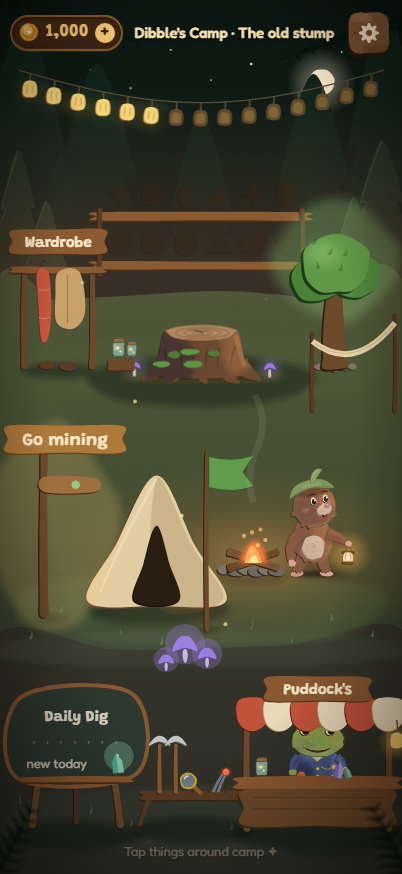
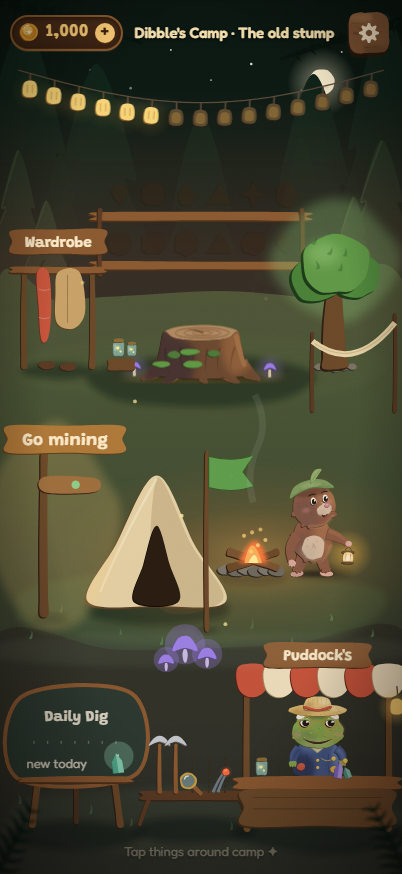
Camp: Puddock stands taller behind his stall
The awning, its posts, lantern and the Puddock's sign (or Psst! bubble) ride
24 units higher and Puddock stands 6 units taller, so his head and hat show
clearly above the counter instead of under the stripes. The stall's tap
target and the pets' keep-out box grow with the awning.

Changed region(s): [[0.5672, 0.7105, 1.0, 0.8959]]

diff --git a/proto/art.js b/proto/art.js
@@ -926,21 +926,21 @@ export function camp(st, gemFn, dibbleSvg) {
   const bench = `<g data-tap="tools" role="button" aria-label="Tool bench">${hit(PK, 300, 186, 388, 258)}${PK.g(`${plank(306, 230, 76, 7, "#5a3b24", r)}${shape(limb(310, 237, 306, 246, 303, 256, 1.6, 1.3), "#5a3b24", "#2e1e12", [-.5, .5])}${shape(limb(378, 237, 382, 246, 385, 256, 1.6, 1.3), "#5a3b24", "#2e1e12", [-.5, .5])}${picks}
     ${st.lens ? `<g transform="translate(330 214) scale(.9)">${ICONS.lens}</g>` : ""}${st.tongs ? `<g transform="translate(352 212) scale(.9)">${ICONS.tongs}</g>` : ""}`)}</g>`;
 
-  const stripe = (k) => { const x = 282 + k * 19.3; return shape(curve([[x, 312], [x + 19.3, 312], [x + 19.3, 328], [x + 9.6, 334], [x, 328]]), k % 2 ? "#f1e4c4" : "#c8553d", k % 2 ? "#a08a60" : "#5a1e14", [-.6, .6]); };
-  const PSt = place(340, 404, 319, yF, 1.3 * kf), bk = 16 / 11 / s; // the Psst! bubble is drawn at a fixed 16px
-  const stall = `<g data-tap="market">${hit(PSt, 280, 294, 400, 406)}${PSt.g(`
-    ${shape(limb(288, 404, 287, 360, 288, 314, 2.2, 1.8), "#6b4a2a", "#2e1e12", [-.7, .6])}${shape(limb(388, 404, 389, 360, 388, 314, 2.2, 1.8), "#6b4a2a", "#2e1e12", [-.7, .6])}
-    ${st.puddockSvg && !st.packed ? `<g class="pud"><svg x="306" y="312" width="64" height="64" viewBox="0 0 100 100">${strip(st.puddockSvg)}</svg></g>` : ""}
+  const aw = 24, stripe = (k) => { const x = 282 + k * 19.3; return shape(curve([[x, 312 - aw], [x + 19.3, 312 - aw], [x + 19.3, 328 - aw], [x + 9.6, 334 - aw], [x, 328 - aw]]), k % 2 ? "#f1e4c4" : "#c8553d", k % 2 ? "#a08a60" : "#5a1e14", [-.6, .6]); };
+  const PSt = place(340, 404, 319, yF, 1.3 * kf), bk = 16 / 11 / s; // the Psst! bubble is drawn at a fixed 16px; aw: the awning (and sign) ride high so Puddock's head shows
+  const stall = `<g data-tap="market">${hit(PSt, 280, 294 - aw, 400, 406)}${PSt.g(`
+    ${shape(limb(288, 404, 287, 360, 288, 314 - aw, 2.2, 1.8), "#6b4a2a", "#2e1e12", [-.7, .6])}${shape(limb(388, 404, 389, 360, 388, 314 - aw, 2.2, 1.8), "#6b4a2a", "#2e1e12", [-.7, .6])}
+    ${st.puddockSvg && !st.packed ? `<g class="pud"><svg x="306" y="306" width="64" height="64" viewBox="0 0 100 100">${strip(st.puddockSvg)}</svg></g>` : ""}
     ${[0, 1, 2, 3, 4, 5].map(stripe).join("")}
     ${plank(282, 366, 112, 9, "#8a5a32", r)}${plank(286, 375, 104, 26, "#6b4a2a", r)}
     <path d="M292 381 H384 M292 389 H384" stroke="#4a3220" stroke-width=".8" opacity=".6"/>
     <g transform="translate(290 350) scale(.7)">${ICONS.jar}</g>${shard(352, 367, 5, 11, .2, "#9b7cf2", r)}${shard(360, 367, 4, 8, -.3, "#5fa99b", r)}
-    <path d="M394 326 Q395 332 394 336" stroke="#4a3a2a" stroke-width=".9" fill="none"/>${shape(curve([[390.6, 336], [397.4, 336], [397.8, 345], [390.2, 345]]), "#f7d77a", "#6a4a24", [-.5, .5])}
-    <circle cx="394" cy="341" r="14" fill="url(#lanternGlow)"/>`)}
-    ${!st.metPuddock && !st.firstRun ? place(338, 270, PSt.x(338), PSt.y(304), bk).g(`<g><animateTransform attributeName="transform" type="translate" values="0 0;0 -3;0 0" dur="1.6s" repeatCount="indefinite"/>
+    <path d="M394 ${326 - aw} Q395 ${332 - aw} 394 ${336 - aw}" stroke="#4a3a2a" stroke-width=".9" fill="none"/>${shape(curve([[390.6, 336 - aw], [397.4, 336 - aw], [397.8, 345 - aw], [390.2, 345 - aw]]), "#f7d77a", "#6a4a24", [-.5, .5])}
+    <circle cx="394" cy="${341 - aw}" r="14" fill="url(#lanternGlow)"/>`)}
+    ${!st.metPuddock && !st.firstRun ? place(338, 270, PSt.x(338), PSt.y(304 - aw), bk).g(`<g><animateTransform attributeName="transform" type="translate" values="0 0;0 -3;0 0" dur="1.6s" repeatCount="indefinite"/>
       ${shape(curve([[312, 262], [338, 258.4], [364, 262], [367, 271.6], [362, 279.6], [346, 281], [339, 290], [335.4, 281], [316, 280], [309.6, 271.6]]), "#fff4dc", "#8a6a3a", [-.8, .7])}
       <text x="338" y="274.6" font-size="11" text-anchor="middle" fill="#3a2410" font-family="Grandstander, Fredoka, sans-serif" font-weight="700">Psst!</text></g>`)
-      : label(PSt.x(338), PSt.y(304), st.packed ? "Back soon (probably)" : "Puddock's", st.packed ? 13 / s : F)}</g>`; // after the first haul (the signpost comes first), a Psst! hangs where his sign goes until you meet him
+      : label(PSt.x(338), PSt.y(304 - aw), st.packed ? "Back soon (probably)" : "Puddock's", st.packed ? 13 / s : F)}</g>`; // after the first haul (the signpost comes first), a Psst! hangs where his sign goes until you meet him
 
   // ---- the backdrop: sky, far layer, tall trees, the ground, ferns in front ----
   const flies = [...Array(d.flies ? 12 : 5)].map((_, k) => `<circle r="1.9" fill="#fff3a0"><animateMotion dur="${9 + k * 1.7}s" begin="${-k * 1.3}s" repeatCount="indefinite" path="M${40 + k * 30} ${f1(yH + (k % 4) * U * .14)} q30 -20 60 0 t60 0 q-30 25 -60 0 t-60 0"/>
@@ -1007,7 +1007,7 @@ export function camp(st, gemFn, dibbleSvg) {
   const haze = `<defs>${hzFill("campHz1", [["#808080", .16]])}${hzFill("campHz2", [["#ff9682", .54], ["#ffc48c", .26, .6], ["#784678", .35, 1]])}${hzFill("campHz3", [["#583e40", .32]])}</defs>
     <g class="campHaze">${["saturation", "soft-light", "lighten"].map((m, k) => `<rect x="-300" y="-900" width="1000" height="${f1(H + 1200)}" fill="url(#campHz${k + 1})" style="mix-blend-mode:${m}"/>`).join("")}</g>`;
   const box = (P, x0, y0, x1, y1) => [P.x(x0), P.y(y0), P.x(x1), P.y(y1)];
-  const roam = [[dx + db * .18, dyy + db * .08, dx + db * .86, dyy + db * .95], box(PF, 162, 228, 204, 260), box(PB, 94, 326, 162, 404), box(PK, 300, 186, 388, 258), box(PSt, 280, 282, 400, 406),
+  const roam = [[dx + db * .18, dyy + db * .08, dx + db * .86, dyy + db * .95], box(PF, 162, 228, 204, 260), box(PB, 94, 326, 162, 404), box(PK, 300, 186, 388, 258), box(PSt, 280, 282 - aw, 400, 406),
     ...(st.packed && st.puddockSvg ? [[366 - pb / 2, yM + 6 * kf - pb, 366 + pb / 2, yM + 6 * kf]] : [])].map((b) => b.map(f1).join(" ")).join(",");
   return `<svg class="campArt" viewBox="0 0 ${W} ${f1(H)}" preserveAspectRatio="xMidYMax meet" aria-label="Dibble's camp" data-ground="${f1(yM - 4 * kf)} ${f1(yF)} ${kf.toFixed(3)}" data-keep="${roam}">
     <defs><linearGradient id="campSky" x1="0" y1="0" x2="0" y2="1">${S.sky.map((col, k) => `<stop offset="${[0, .6, 1][k]}" stop-color="${col}"/>`).join("")}</linearGradient>
